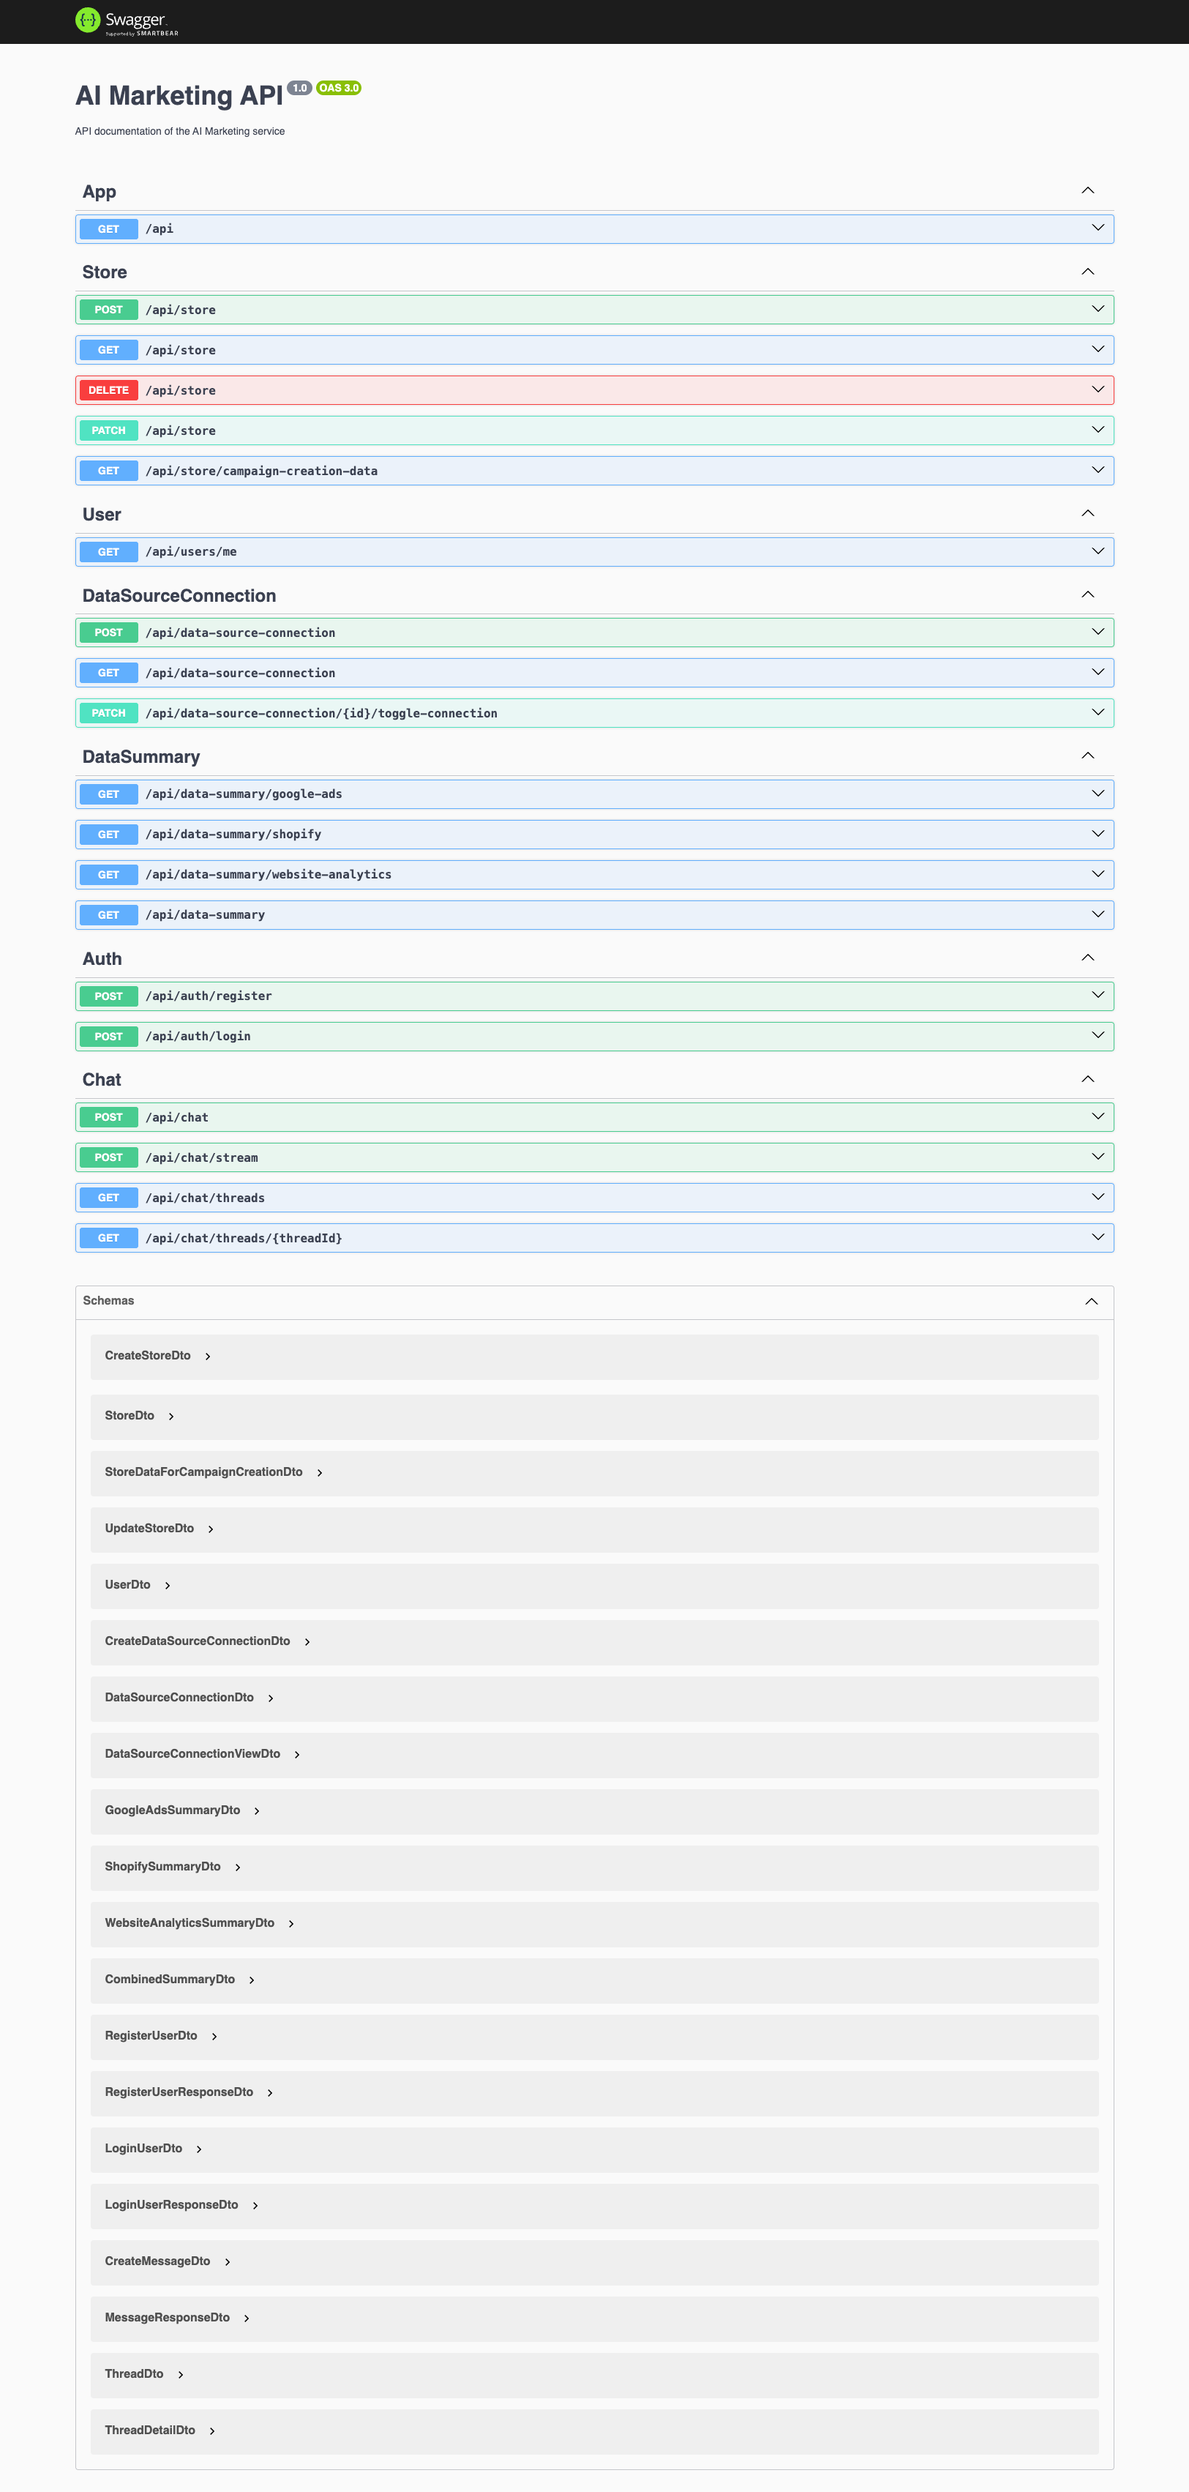
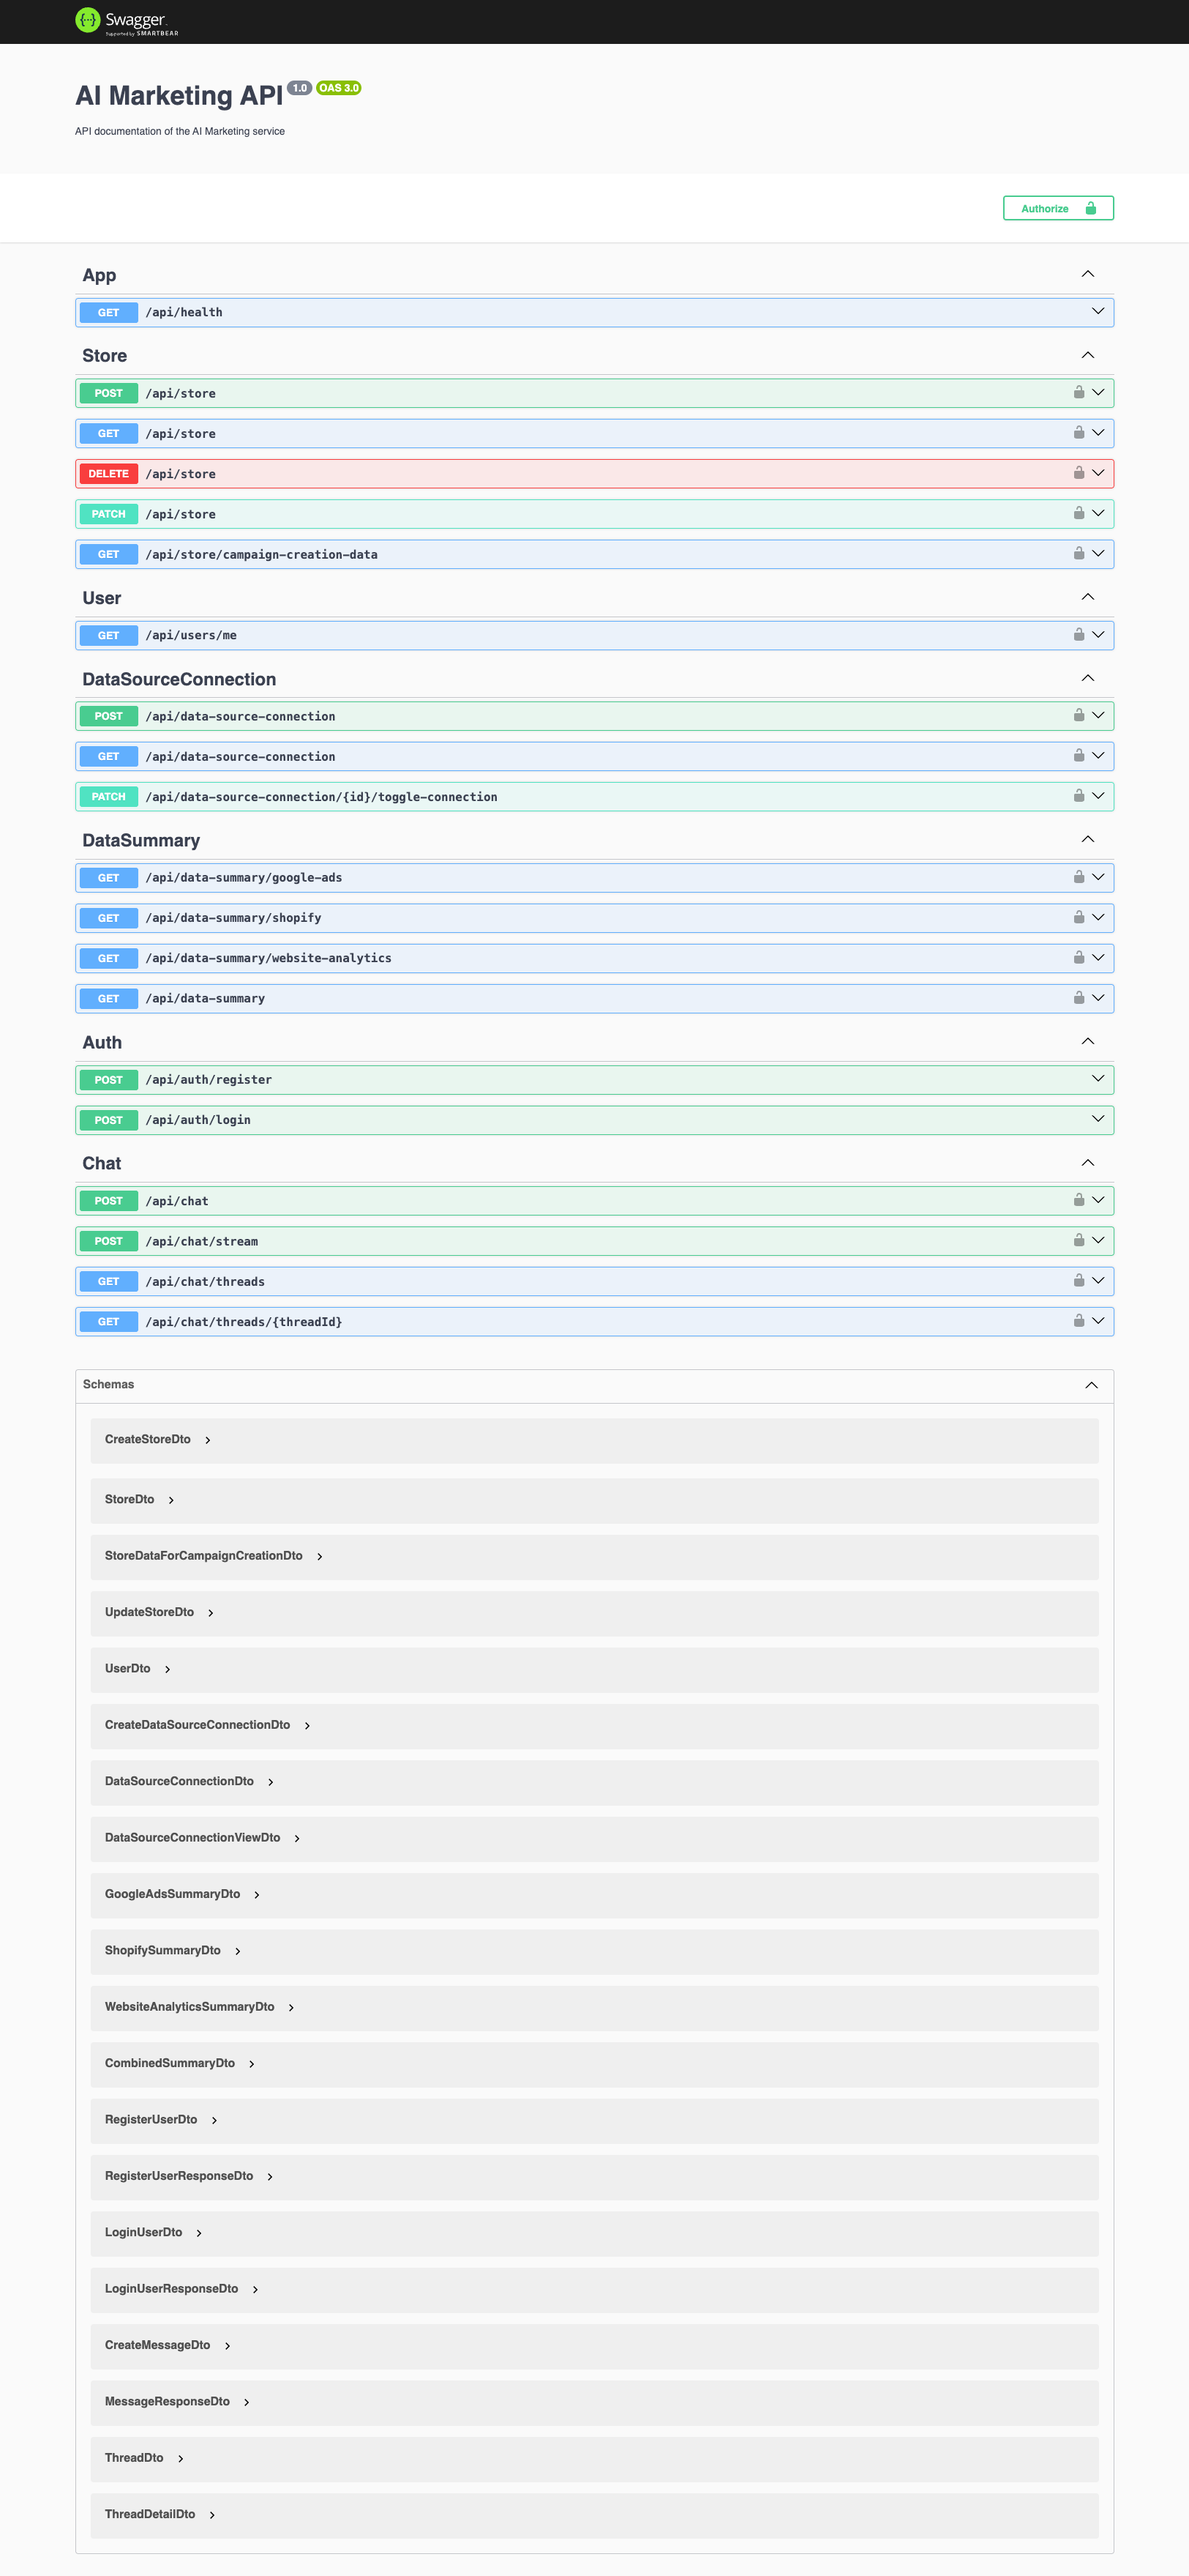
be: integrated authentication with swagger

Changed region(s): [[0.0615, 0.0, 0.9231, 0.9342], [0.8615, 0.0623, 0.9231, 0.0934]]

diff --git a/server/src/main.ts b/server/src/main.ts
@@ -15,6 +15,17 @@ async function bootstrap() {
     .setTitle('AI Marketing API')
     .setDescription('API documentation of the AI Marketing service')
     .setVersion('1.0')
+    .addBearerAuth(
+      {
+        type: 'http',
+        scheme: 'bearer',
+        bearerFormat: 'JWT',
+        description: 'Enter JWT token',
+        name: 'Authorization',
+        in: 'header',
+      },
+      'access-token', // This name ('access-token') should match the name used in @ApiBearerAuth() decorator
+    )
     .build();
   const openApiDoc = SwaggerModule.createDocument(app, docConfig);
   SwaggerModule.setup('api', app, cleanupOpenApiDoc(openApiDoc));

diff --git a/server/src/data-ingestion/data-summary.controller.ts b/server/src/data-ingestion/data-summary.controller.ts
@@ -19,9 +19,11 @@ import { GoogleAdsSummaryDto } from './dto/google-ads-summary.dto';
 import { ShopifySummaryDto } from './dto/shopify-summary.dto';
 import { WebsiteAnalyticsSummaryDto } from './dto/website-analytics-summary.dto';
 import { CombinedSummaryDto } from './dto/combined-summary.dto';
+import { ApiBearerAuth } from '@nestjs/swagger';
 
-@UseGuards(AccessTokenGuard)
 @Controller('data-summary')
+@ApiBearerAuth('access-token')
+@UseGuards(AccessTokenGuard)
 export class DataSummaryController {
   constructor(
     private readonly dataSummaryService: DataSummaryService,

diff --git a/server/src/chat/chat.controller.ts b/server/src/chat/chat.controller.ts
@@ -21,9 +21,10 @@ import { ChatService } from './chat.service';
 import { AccessTokenGuard } from 'src/auth/passport/access-token.guard';
 import type { TAuthenticatedRequest } from 'src/auth/dto/auth.dto';
 import { ZodResponse } from 'nestjs-zod';
-import { ApiProduces } from '@nestjs/swagger';
+import { ApiBearerAuth, ApiProduces } from '@nestjs/swagger';
 
 @Controller('chat')
+@ApiBearerAuth('access-token')
 @UseGuards(AccessTokenGuard)
 export class ChatController {
   private readonly logger = new Logger(ChatController.name);

diff --git a/server/src/data-ingestion/data-source-connection.controller.ts b/server/src/data-ingestion/data-source-connection.controller.ts
@@ -19,9 +19,11 @@ import {
 } from './dto/data-source-connection.dto';
 import { AccessTokenGuard } from 'src/auth/passport/access-token.guard';
 import { ZodResponse } from 'nestjs-zod';
+import { ApiBearerAuth } from '@nestjs/swagger';
 
-@UseGuards(AccessTokenGuard)
 @Controller('data-source-connection')
+@ApiBearerAuth('access-token')
+@UseGuards(AccessTokenGuard)
 export class DataSourceConnectionController {
   private readonly logger = new Logger(DataSourceConnectionController.name);
   constructor(

diff --git a/server/src/user/user.controller.ts b/server/src/user/user.controller.ts
@@ -2,8 +2,10 @@ import { Controller, Get, Req, UseGuards } from '@nestjs/common';
 import { AccessTokenGuard } from 'src/auth/passport/access-token.guard';
 import { UserDto, type TAuthenticatedRequest } from 'src/auth/dto/auth.dto';
 import { ZodResponse } from 'nestjs-zod';
+import { ApiBearerAuth } from '@nestjs/swagger';
 
 @Controller('users')
+@ApiBearerAuth('access-token')
 @UseGuards(AccessTokenGuard)
 export class UserController {
   @Get('me')

diff --git a/server/src/store/store.controller.ts b/server/src/store/store.controller.ts
@@ -23,8 +23,10 @@ import {
 import { AccessTokenGuard } from 'src/auth/passport/access-token.guard';
 import type { TAuthenticatedRequest } from 'src/auth/dto/auth.dto';
 import { ZodResponse } from 'nestjs-zod';
+import { ApiBearerAuth } from '@nestjs/swagger';
 
 @Controller('store')
+@ApiBearerAuth('access-token')
 @UseGuards(AccessTokenGuard)
 export class StoreController {
   private readonly logger = new Logger(StoreController.name);

diff --git a/server/src/app.controller.ts b/server/src/app.controller.ts
@@ -2,7 +2,7 @@ import { Controller, Get } from '@nestjs/common';
 
 @Controller()
 export class AppController {
-  @Get()
+  @Get('/health')
   getHealth() {
     return {
       status: 'ok',
